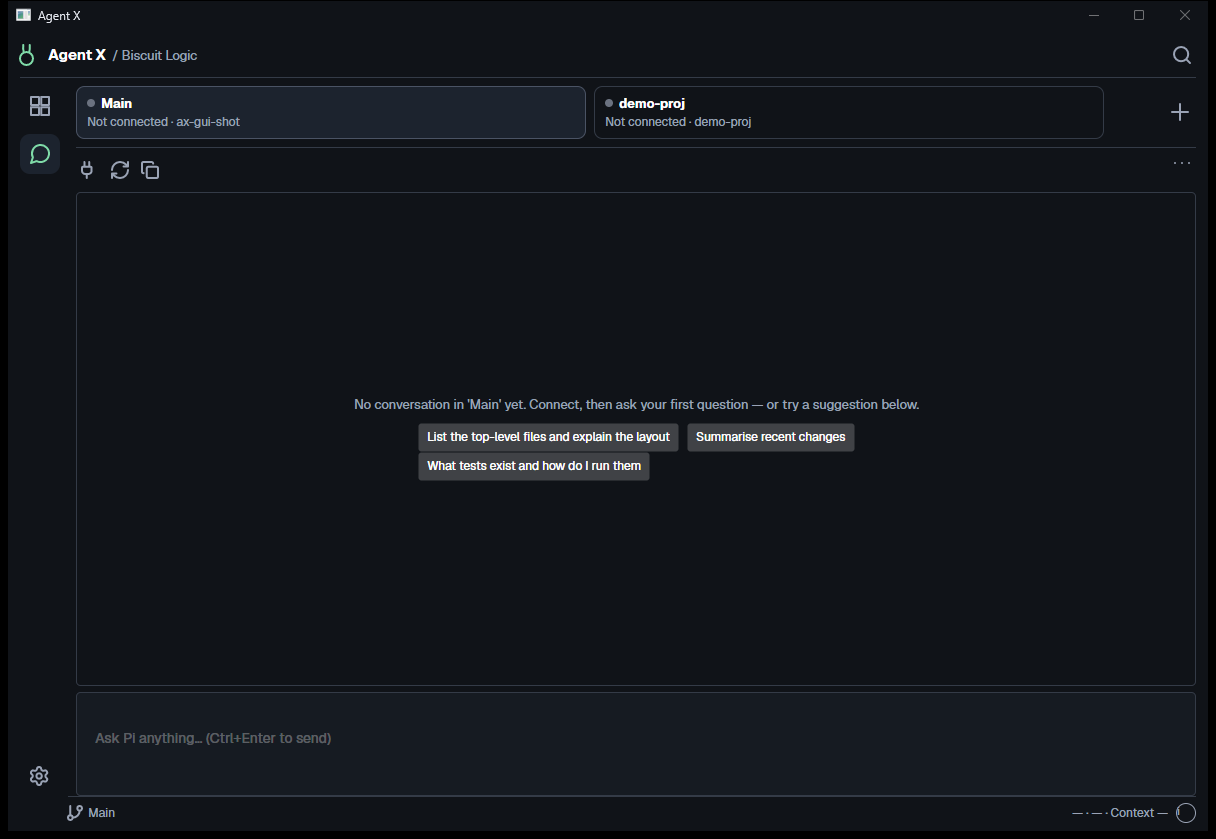
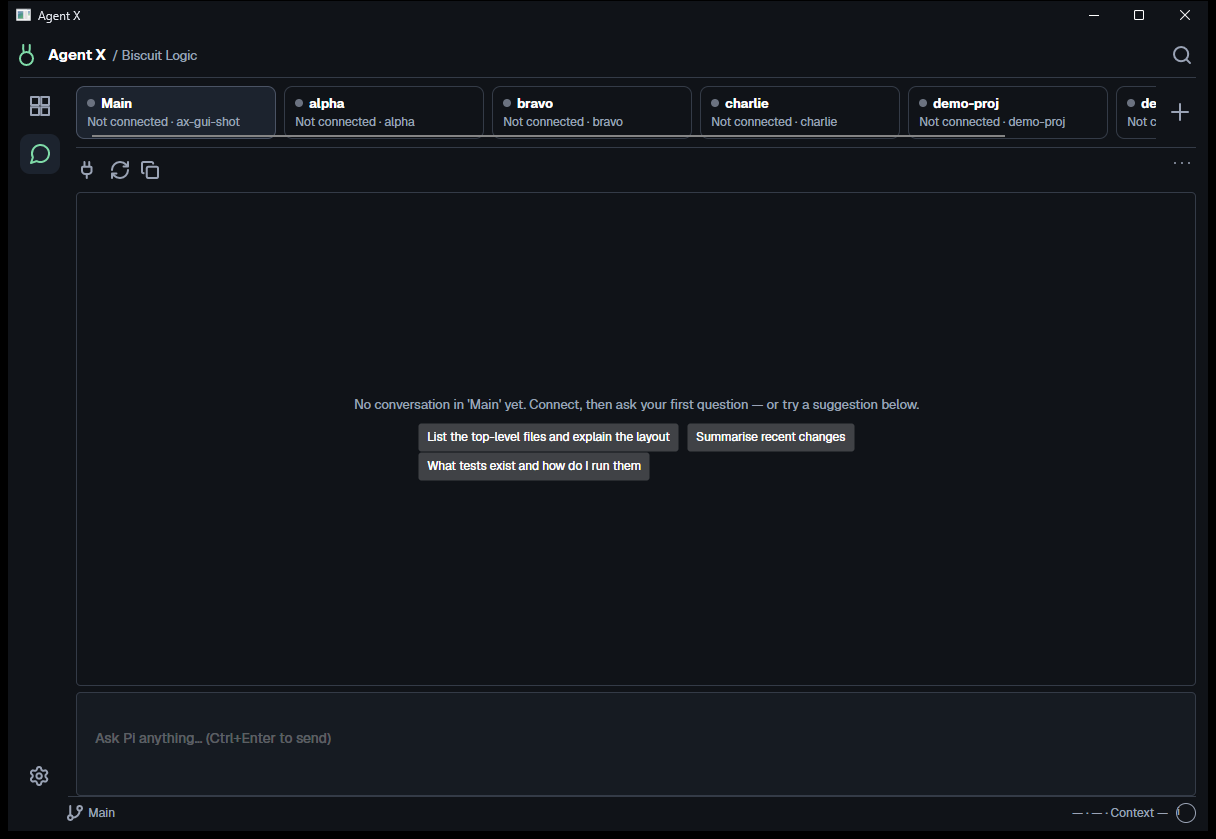
GUI Checkpoint A second pass (Lucy re-review of 83c4f9a)
- Card widths from the real card viewport (Add lives outside the
  scroller): equal shares, 200px floor, last card meets the right edge;
  verified one/two/overflow at 720px and wide.
- Notice lifecycle as a tested state machine: new alerts auto-open,
  routine collapses unless manually opened, manual expansion preserved,
  new errors re-open. Warning toggle uses the warning amber, not the
  success green; keyword severity documented as temporary.
- Removed the duplicated footer refresh in the branch callback.
- Footer stress verified live at 720px with a genuine 58-char branch:
  left cell ellipsizes (Grid, not StackPanel), engine side intact,
  single line, no overlap or wrap.
- Diagnostics sit above the final compact row throughout.

Tests: 524/524 Release (186 App, 338 Core), 0 warnings. Evidence in
docs/gui-ckpt-a: wide, 720px, two-card, overflow, connected (genuine
model + branch), 720px stress, warning-expanded. No hang
investigation (per instruction), no interiors, no merge.

diff --git a/src/AgentX.App/MainWindow.Shell.cs b/src/AgentX.App/MainWindow.Shell.cs
@@ -53,37 +53,28 @@ public partial class MainWindow
 
     // Expandable notice (Lucy corrective pass): normal operation shows exactly
     // one footer line. Routine information never lights the toggle; genuine
-    // warning/error language (ShellCards.IsAlert, tested both ways) greens it
+    // warning/error language (ShellCards.IsAlert, tested both ways) ambers it
     // and opens the text on arrival. Writers are untouched; the full text is
     // always one click away.
-    private bool _noticeOpen;
-    private string? _lastNoticeText;
+    // Notice lifecycle lives in ContextCards.NoticeState (tested): alerts
+    // auto-open, routine collapses unless manually opened, writers untouched.
+    // Keyword severity is temporary; typed severity is a future improvement.
+    private ContextCards.NoticeState _notice = new(false, false, null);
 
     private void SyncTransientVisibility()
     {
-        var text = StatusText.Text;
-        var hasNotice = !string.IsNullOrEmpty(text);
-        var alert = ShellCards.IsAlert(text);
-        if (hasNotice && alert && text != _lastNoticeText)
-        {
-            _noticeOpen = true;
-        }
-
-        if (hasNotice)
-        {
-            _lastNoticeText = text;
-        }
-
+        _notice = ShellCards.NextNotice(_notice, StatusText.Text);
+        var hasNotice = !string.IsNullOrEmpty(StatusText.Text);
         NoticeToggle.IsVisible = hasNotice;
-        NoticeToggle.Foreground = alert ? AxTheme.GreenBrush : AxTheme.MutedBrush;
-        FooterTransient.IsVisible = hasNotice && _noticeOpen;
-        NoticeToggle.SetValue(AutomationProperties.NameProperty, _noticeOpen ? "Hide notice" : "Show notice");
-        ToolTip.SetTip(NoticeToggle, _noticeOpen ? "Hide notice" : "Show notice");
+        NoticeToggle.Foreground = ShellCards.IsAlert(StatusText.Text) ? AxTheme.YellowBrush : AxTheme.MutedBrush;
+        FooterTransient.IsVisible = hasNotice && _notice.Open;
+        NoticeToggle.SetValue(AutomationProperties.NameProperty, _notice.Open ? "Hide notice" : "Show notice");
+        ToolTip.SetTip(NoticeToggle, _notice.Open ? "Hide notice" : "Show notice");
     }
 
     private void NoticeToggle_OnClick(object? sender, RoutedEventArgs e)
     {
-        _noticeOpen = !_noticeOpen;
+        _notice = ShellCards.ToggleNotice(_notice);
         SyncTransientVisibility();
     }
 
@@ -296,7 +287,7 @@ public partial class MainWindow
             return;
         }
 
-        var width = ShellCards.CardWidth(viewport, cards.Count, 44);
+        var width = ShellCards.CardWidth(viewport, cards.Count);
         foreach (var card in cards)
         {
             if (double.IsNaN(card.Width) || Math.Abs(card.Width - width) >= 0.5)
@@ -448,7 +439,6 @@ public partial class MainWindow
                 }
 
                 _gitBranchCache[root] = (branch, DateTime.UtcNow);
-                RefreshCompactFooter();
                 RefreshCompactFooter();
             });
         }, cts.Token);

diff --git a/src/AgentX.App/ContextCards.cs b/src/AgentX.App/ContextCards.cs
@@ -38,19 +38,20 @@ public static class ContextCards
         => new(key, false, name, StateWordFor(busy, connecting, connected), detail, connected, busy, selected);
 
     /// <summary>
-    /// Per-card width for the balanced strip: cards share the viewport
-    /// equally (single card fills it — edges align with the page below),
-    /// floored at 200px so overflow scrolls instead of crushing. Pure so
-    /// the layout rule is tested, not eyeballed.
+    /// Per-card width for the balanced strip: the Add control lives outside
+    /// the scroller, so cards share exactly the card viewport minus the
+    /// real inter-card gaps. Single card fills it (edges meet the page
+    /// below); the 200px floor sends overflow to the scroller instead of
+    /// crushing content. Pure so the layout rule is tested, not eyeballed.
     /// </summary>
-    public static double CardWidth(double viewportWidth, int cardCount, double addWidth)
+    public static double CardWidth(double viewportWidth, int cardCount)
     {
         if (cardCount <= 0 || viewportWidth <= 0)
         {
             return 200;
         }
 
-        return Math.Max(200, (viewportWidth - Math.Max(0, addWidth) - (8 * cardCount)) / cardCount);
+        return Math.Max(200, (viewportWidth - (8 * (cardCount - 1))) / cardCount);
     }
 
     /// <summary>
@@ -102,6 +103,37 @@ public static class ContextCards
         "corrupt", "mismatch", "denied", "unavailable", "unable", "error",
         "invalid", "expired", "quarantine",
     ];
+
+    /// <summary>
+    /// Notice expansion lifecycle: call on every status change. A new alert
+    /// opens automatically; a new routine message collapses unless the user
+    /// deliberately opened the notice (manual toggle); unchanged or empty
+    /// text keeps the current state. Writers are untouched — severity stays
+    /// a hint, and typed severity remains a future improvement.
+    /// </summary>
+    public sealed record NoticeState(bool Open, bool Manual, string? LastText);
+
+    public static NoticeState NextNotice(NoticeState state, string? text)
+    {
+        if (string.IsNullOrEmpty(text))
+        {
+            return new NoticeState(false, state.Manual, null);
+        }
+
+        if (text == state.LastText)
+        {
+            return state;
+        }
+
+        return IsAlert(text)
+            ? new NoticeState(true, state.Manual, text)
+            : new NoticeState(state.Manual, state.Manual, text);
+    }
+
+    public static NoticeState ToggleNotice(NoticeState state)
+        => state.Open
+            ? new NoticeState(false, false, state.LastText)
+            : new NoticeState(true, true, state.LastText);
 
     /// <summary>Bounded branch freshness: refresh when never checked or older than the TTL.</summary>
     public static readonly TimeSpan GitBranchTtl = TimeSpan.FromMinutes(5);

diff --git a/tests/AgentX.App.Tests/ContextCardsTests.cs b/tests/AgentX.App.Tests/ContextCardsTests.cs
@@ -27,14 +27,63 @@ public sealed class ContextCardsTests
     }
 
     [Theory]
-    [InlineData(696, 1, 40, 648)]
-    [InlineData(696, 2, 40, 320)]
-    [InlineData(696, 6, 40, 200)]
-    [InlineData(0, 2, 40, 200)]
-    [InlineData(696, 0, 40, 200)]
-    public void CardWidth_BalancesAcrossViewport_FloorsAt200(double viewport, int count, double add, double expected)
+    [InlineData(696, 1, 696)]
+    [InlineData(696, 2, 344)]
+    [InlineData(696, 6, 200)]
+    [InlineData(0, 2, 200)]
+    [InlineData(696, 0, 200)]
+    public void CardWidth_BalancesAcrossViewport_FloorsAt200(double viewport, int count, double expected)
     {
-        Assert.Equal(expected, ContextCards.CardWidth(viewport, count, add));
+        Assert.Equal(expected, ContextCards.CardWidth(viewport, count));
+    }
+
+    [Fact]
+    public void NoticeState_WarningThenRoutine_Collapses()
+    {
+        var closed = new ContextCards.NoticeState(false, false, null);
+        var alerted = ContextCards.NextNotice(closed, "Connection failed: timeout.");
+        Assert.True(alerted.Open);
+
+        var routine = ContextCards.NextNotice(alerted, "Main selected — press Connect.");
+        Assert.False(routine.Open);
+        Assert.Equal("Main selected — press Connect.", routine.LastText);
+    }
+
+    [Fact]
+    public void NoticeState_ManualExpansion_SurvivesRoutine()
+    {
+        var closed = new ContextCards.NoticeState(false, false, null);
+        var manual = ContextCards.ToggleNotice(closed);
+        Assert.True(manual is { Open: true, Manual: true });
+
+        var routine = ContextCards.NextNotice(manual, "Copied message #5.");
+        Assert.True(routine.Open);
+        Assert.True(routine.Manual);
+    }
+
+    [Fact]
+    public void NoticeState_NewError_ReopensAfterManualClose()
+    {
+        var closed = new ContextCards.NoticeState(false, false, "old routine");
+        var alerted = ContextCards.NextNotice(closed, "Connection failed: timeout.");
+        var dismissed = ContextCards.ToggleNotice(alerted);
+        Assert.False(dismissed.Open);
+        Assert.False(dismissed.Manual);
+
+        var again = ContextCards.NextNotice(dismissed, "Connection failed: refused.");
+        Assert.True(again.Open);
+    }
+
+    [Fact]
+    public void NoticeState_Empty_CollapsesUnchangedText_Keeps()
+    {
+        var open = new ContextCards.NoticeState(true, true, "Copied.");
+        var cleared = ContextCards.NextNotice(open, string.Empty);
+        Assert.False(cleared.Open);
+        Assert.True(cleared.Manual);
+
+        var steady = ContextCards.NextNotice(open, "Copied.");
+        Assert.True(steady.Open);
     }
 
     [Fact]
